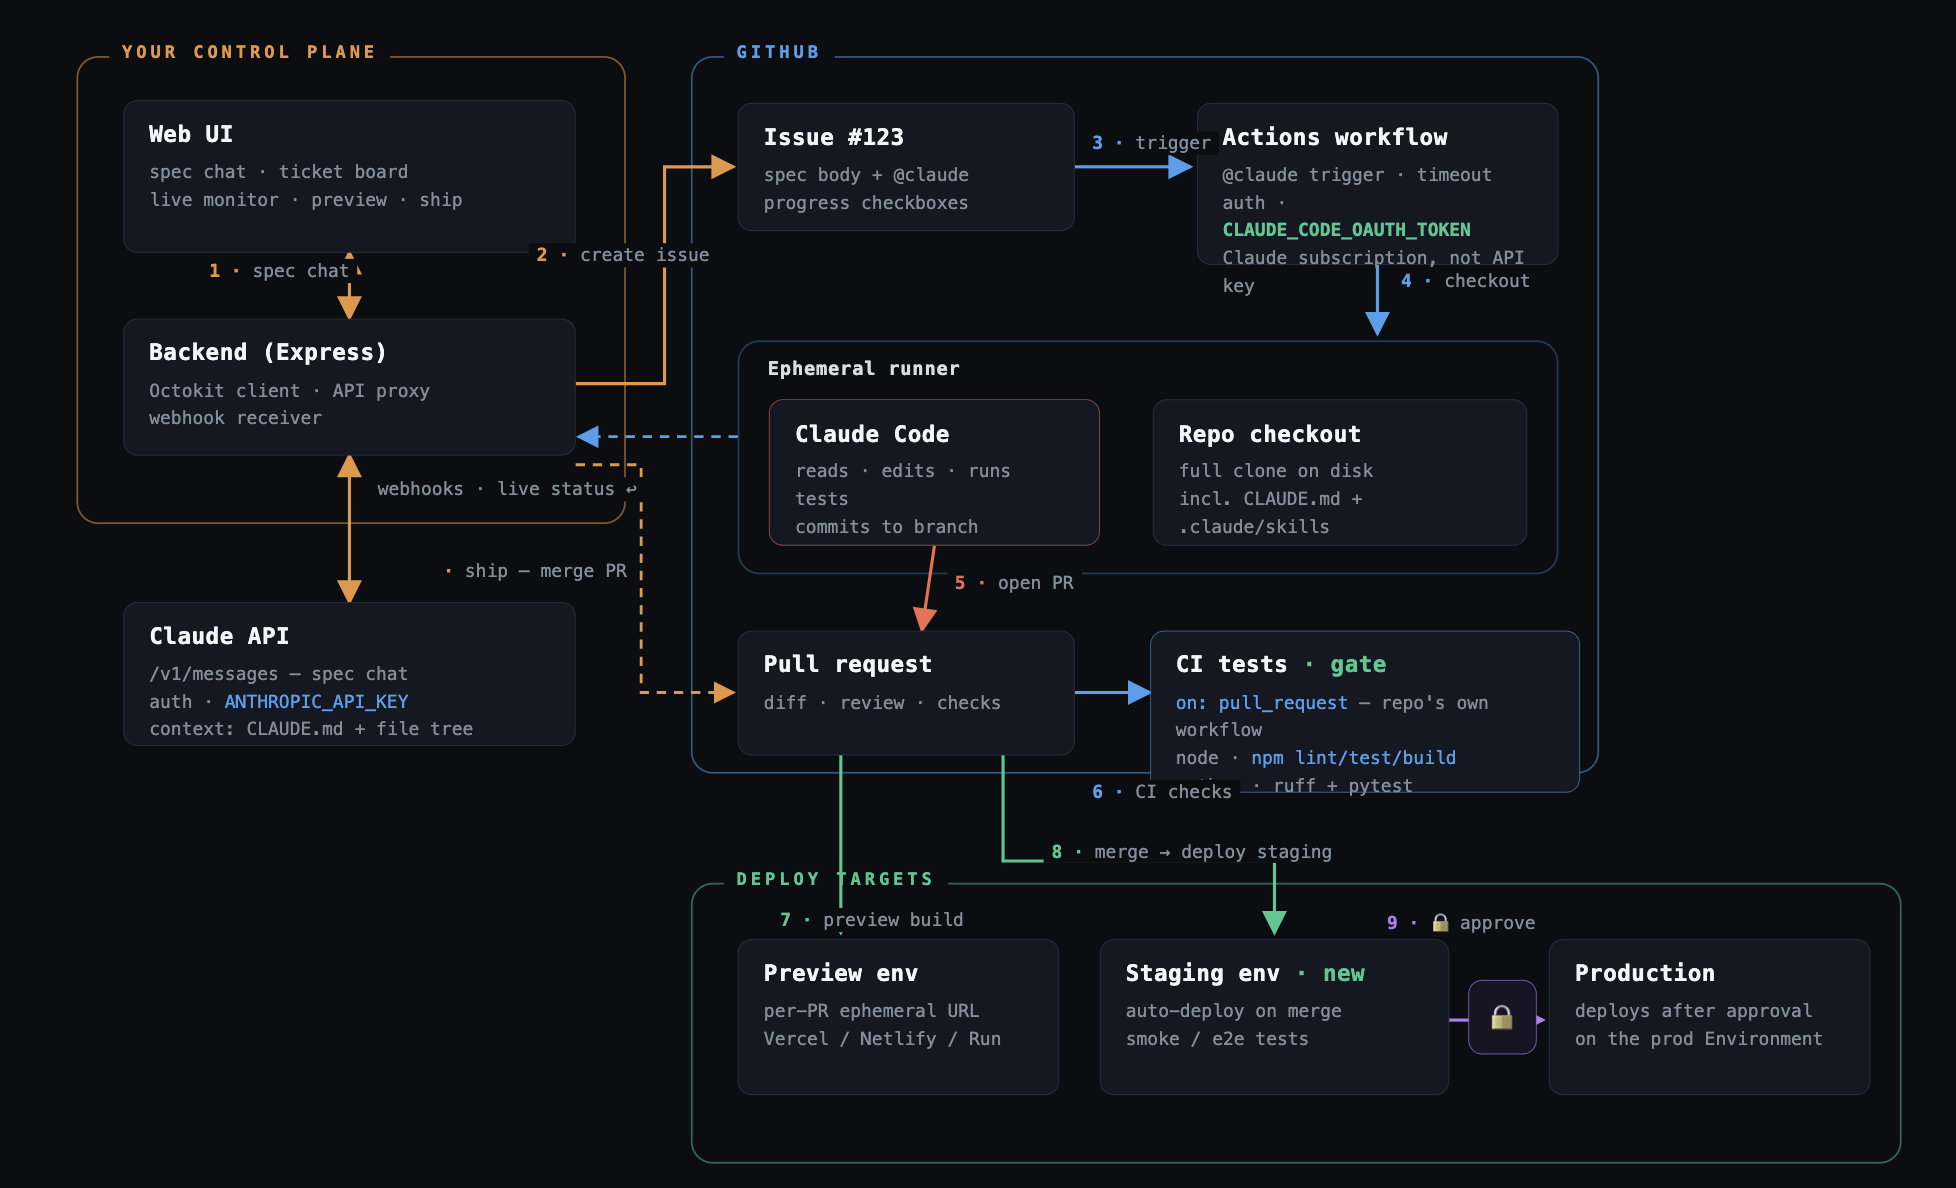
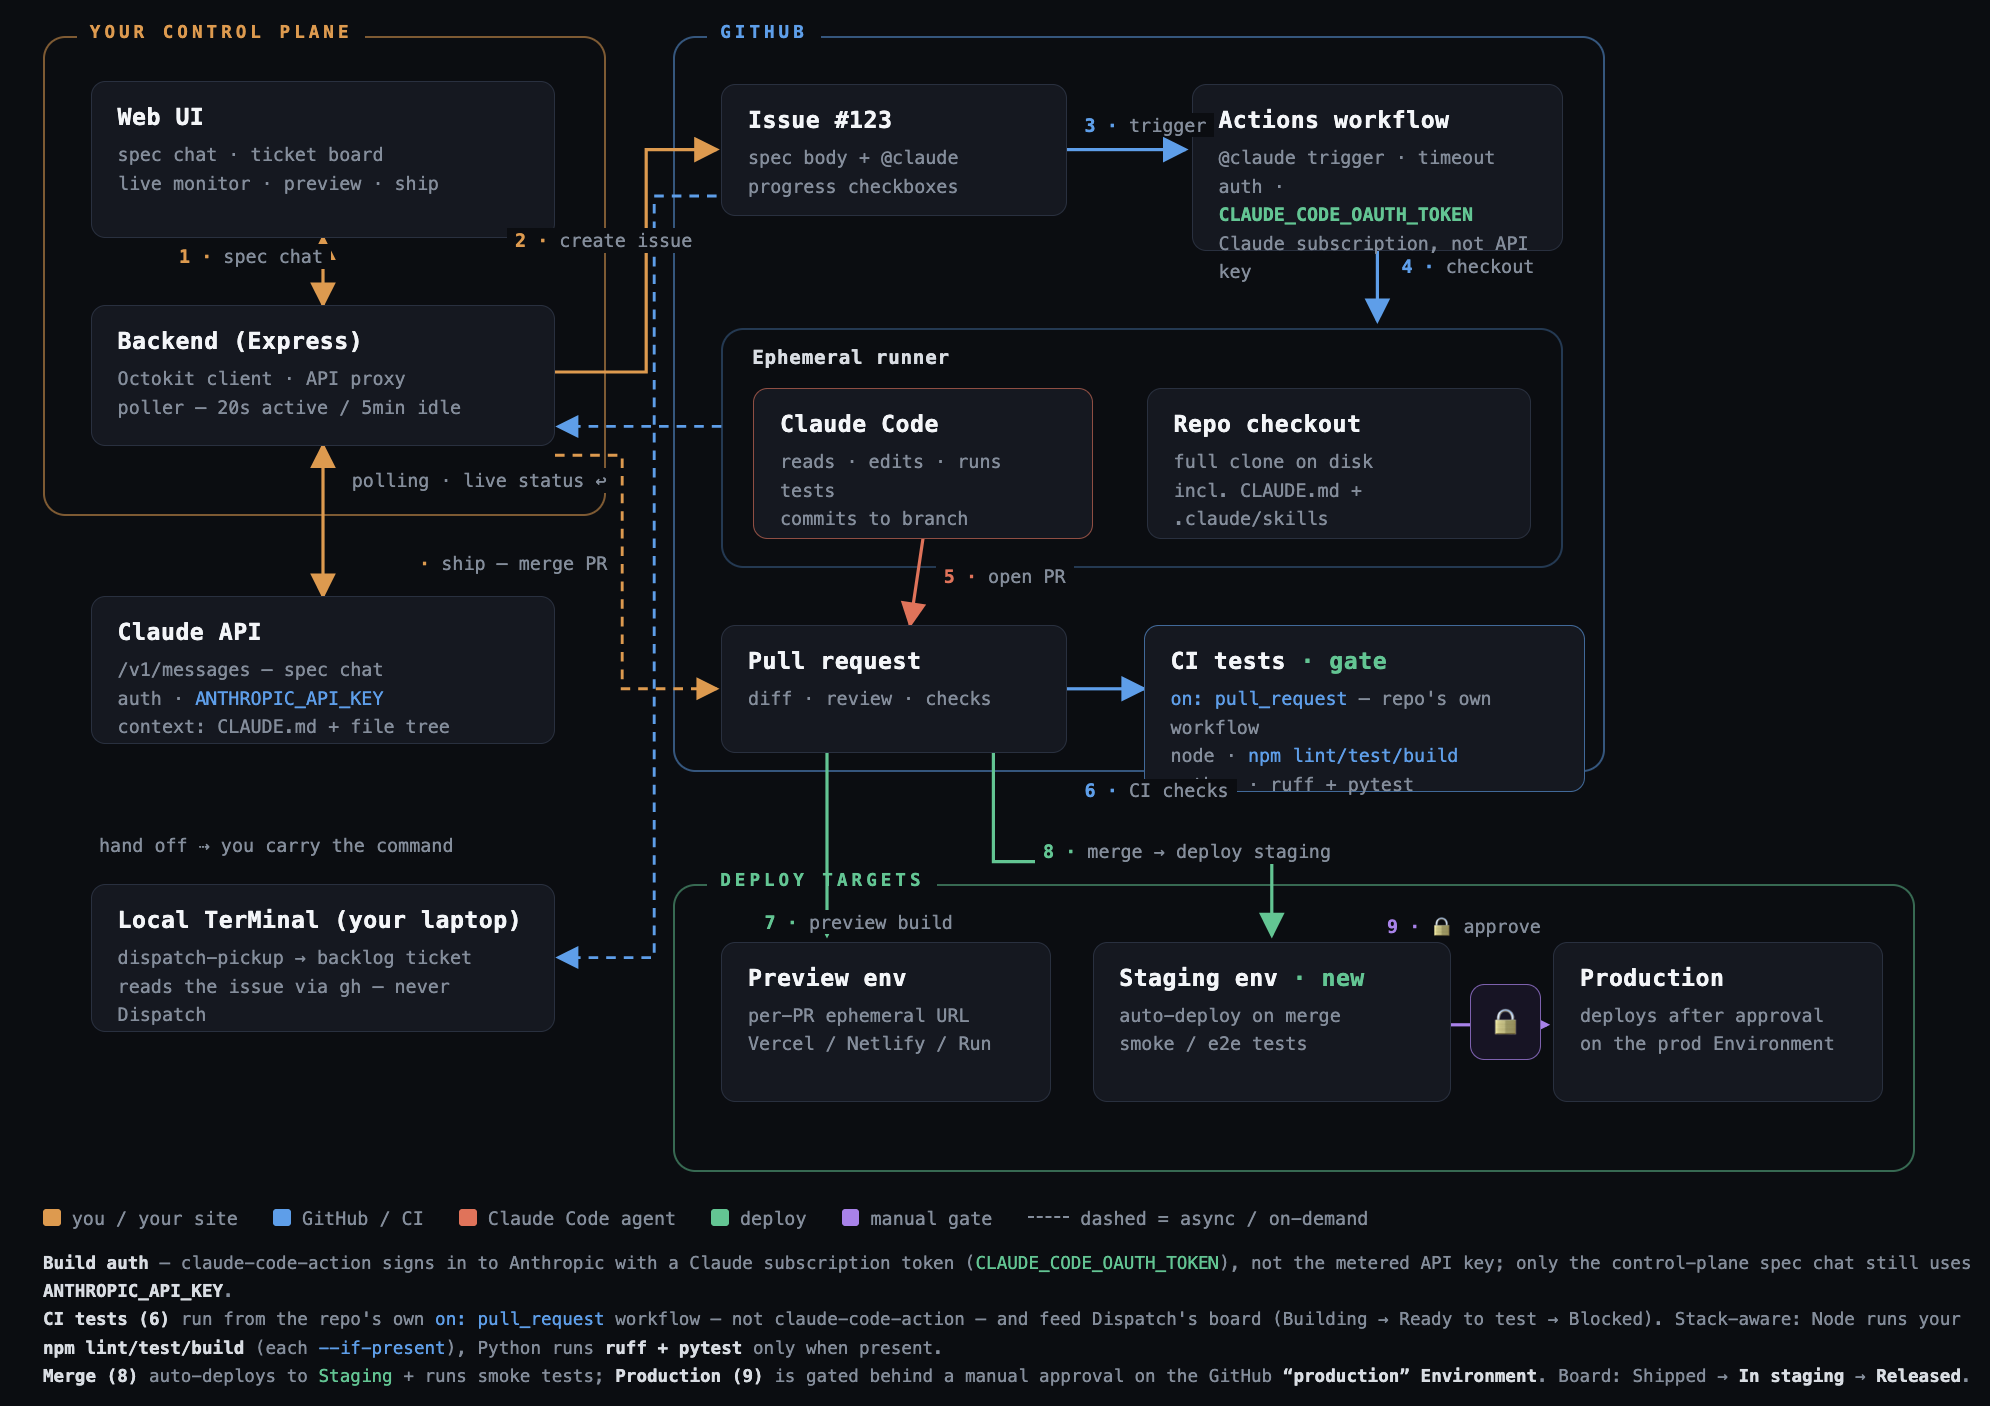
docs: replace the architecture PNG with a render of the HTML source (#41)
The hero image was an unmaintainable binary: no .mmd, .drawio, or
.excalidraw anywhere in the repo, so it could not be corrected without
redrawing it blind. It also predated the poller, and so showed the same
webhook-shaped fiction #40 removed from the HTML diagram.

Replaced with a re-export of docs/pipeline-architecture-diagram.html
now that #40 corrected it. The image now matches reality — poller
rather than webhooks, and the TerMinal handoff path is visible — and
more importantly it has a source file in the repo.

README records that provenance in a caption so the next person to spot
an error edits the HTML rather than starting over, and the image gains
real alt text; it previously had none beyond "Overview: ".

Claude-Session: https://claude.ai/code/session_017AewNSCixJ9NNkyBGDp3wi

diff --git a/.TerMinal/backlog/0041-redraw-the-readme-architecture-png.md b/.TerMinal/backlog/0041-redraw-the-readme-architecture-png.md
@@ -1,10 +1,10 @@
 ---
 id: 41
 title: "README's architecture PNG has no source file and cannot be maintained"
-status: open
+status: closed
 priority: low
 horizon: next
-hitl: true
+hitl: false
 type: docs
 source: doc audit, #40
 created: 2026-07-22
@@ -33,7 +33,19 @@ It is very likely already wrong in the same way `pipeline-architecture-diagram.h
 was — depicting webhooks rather than the poller — but that cannot be confirmed
 without opening the image and reading it by eye.
 
-`hitl: true` because the fix is a design choice, not a mechanical one: either
+`hitl: false` because the fix is a design choice, not a mechanical one: either
 redraw it in a source format (mermaid would render natively on GitHub and in
 TerMinal), or drop the hero image and promote the HTML diagram, which *is*
 maintainable and now accurate. That call is the owner's.
+
+## Resolution (2026-07-22)
+
+Resolved the good way rather than by redrawing blind. The owner re-exported the
+PNG from `docs/pipeline-architecture-diagram.html` after #40 corrected it, so
+the hero image now (a) matches reality — poller, not webhooks, and it shows the
+TerMinal handoff — and (b) **has a checked-in source**, which was the actual
+complaint. The HTML is the source; the PNG is a render of it.
+
+README now carries that provenance in a caption under the image, plus real alt
+text (it previously had none — `![Overview: ]`), so the next person to find the
+diagram wrong edits the HTML instead of starting over.

diff --git a/README.md b/README.md
@@ -12,7 +12,13 @@ production without leaving one browser tab (or Slack). Dispatch
 stores almost nothing itself: delete the local SQLite cache and it rebuilds
 the whole board from the provider on the next poll.
 
-![Overview: ](docs/img/dispatch_arch.png)
+![Dispatch architecture: the control plane (web UI, Express backend, Claude API)
+drives GitHub (issue → Actions → Claude Code → PR → CI), which deploys to
+preview, staging, and production; a handoff path exits to a local TerMinal
+session.](docs/img/dispatch_arch.png)
+
+<sub>Rendered from [`docs/pipeline-architecture-diagram.html`](docs/pipeline-architecture-diagram.html) —
+edit that file and re-export, rather than editing the PNG.</sub>
 
 - **Frontend:** React 18 + Vite + Tailwind v3 (dark), `http://localhost:5173`
 - **Backend:** Express on Node 20, `http://127.0.0.1:3001` (localhost-only)